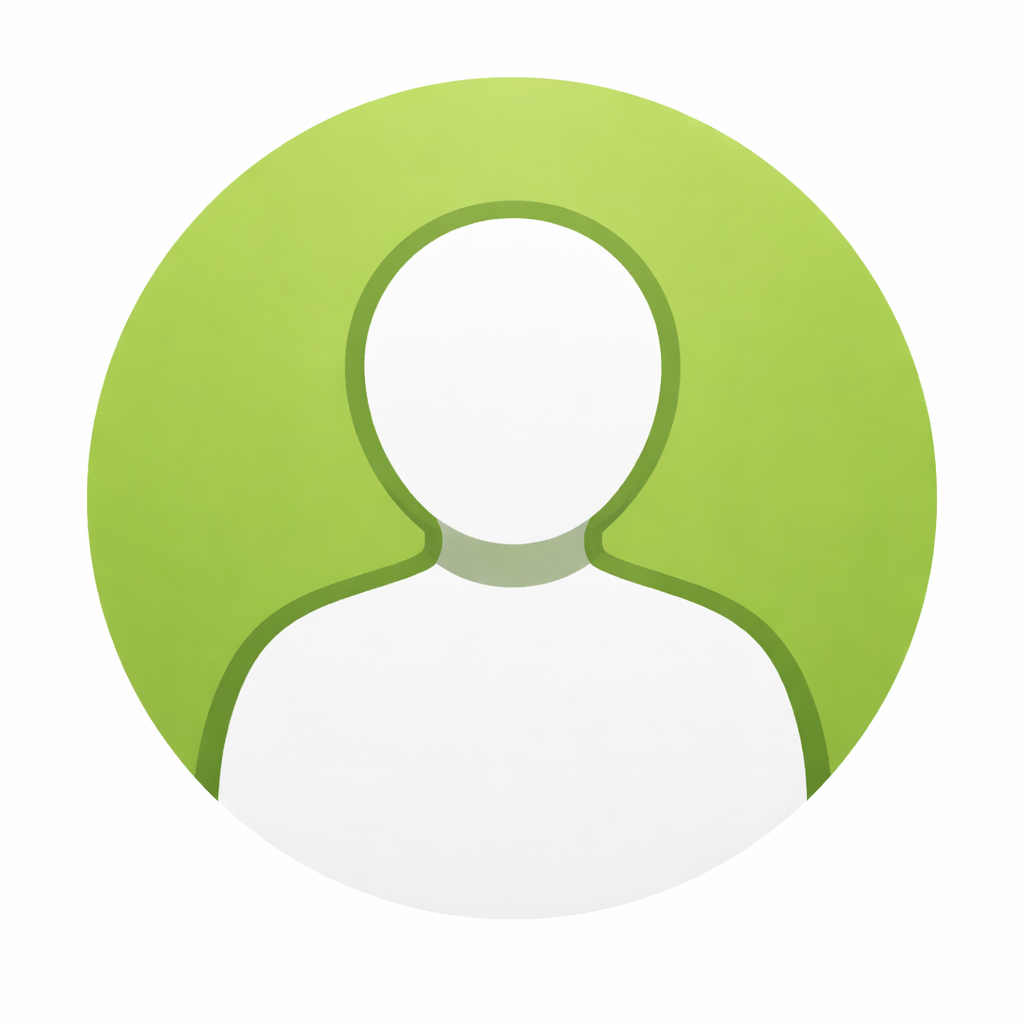
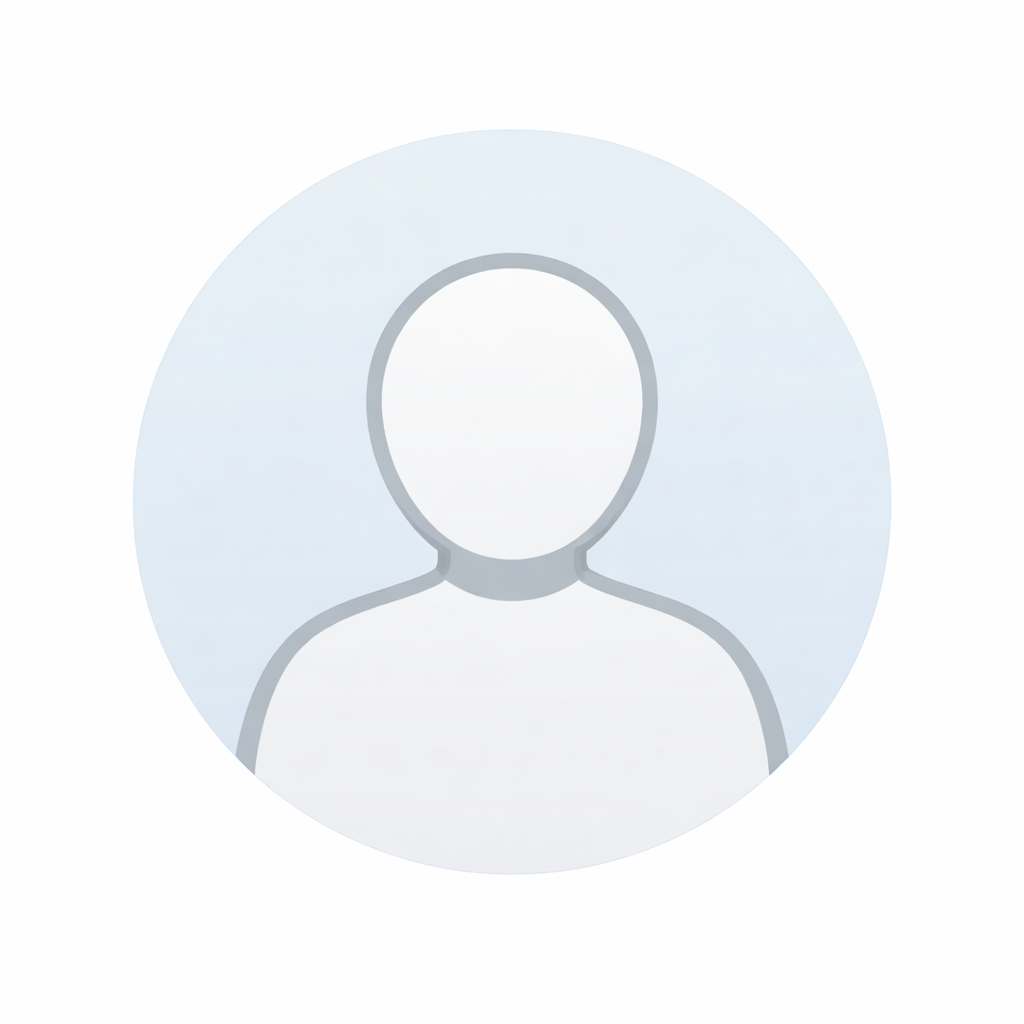
design : 서비스명 및 디자인 통일

diff --git a/src/pages/signIn.tsx b/src/pages/signIn.tsx
@@ -1,4 +1,4 @@
-import logo from "@/assets/logo-transparent.png";
+import logo from "@/assets/logo.png";
 import { Button } from "@/components/ui/button";
 import { Input } from "@/components/ui/input";
 import { Label } from "@/components/ui/label";
@@ -56,7 +56,7 @@ export default function SignIn() {
               <img src={logo} alt="MY XI 로고" className="h-12 sm:h-14" />
             </div>
             <div className="text-left">
-              <h1 className="text-brand-green text-2xl font-bold tracking-wide sm:text-3xl">
+              <h1 className="text-brand text-2xl font-bold tracking-wide sm:text-3xl">
                 MY XI
               </h1>
               <p className="text-muted-foreground text-sm">

diff --git a/src/components/layout/globalLayout.tsx b/src/components/layout/globalLayout.tsx
@@ -8,13 +8,10 @@ export default function GlobalLayout() {
       <header className="h-15 border-b">
         <div className="m-auto flex h-full w-full max-w-5/6 justify-between px-4">
           <Link to={"/"} className="flex items-center">
-            <img
-              className="h-10"
-              src={logo}
-              alt="축구 포메이션 메이커 서비스 로고"
-            />
-            <div className="font-bold">Formation-Lab</div>
+            <img className="h-10" src={logo} alt="MY XI 서비스 로고" />
+            <div className="font-bold">MY XI</div>
           </Link>
+
           <div className="flex items-center">
             <img
               className="h-10"

diff --git a/src/pages/forgetPassword.tsx b/src/pages/forgetPassword.tsx
@@ -1,4 +1,4 @@
-import logo from "@/assets/logo-transparent.png";
+import logo from "@/assets/logo.png";
 import { Button } from "@/components/ui/button";
 import { Input } from "@/components/ui/input";
 import { Label } from "@/components/ui/label";
@@ -36,7 +36,7 @@ export default function ForgetPassword() {
   };
   return (
     <div className="flex min-h-screen flex-col md:flex-row">
-      <div className="bg-brand-green flex w-full items-center justify-center md:w-1/2">
+      <div className="bg-brand flex w-full items-center justify-center md:w-1/2">
         <div className="max-w-sm p-8 text-center text-white">
           <img
             src={logo}

diff --git a/src/pages/SignUp.tsx b/src/pages/SignUp.tsx
@@ -1,4 +1,4 @@
-import logo from "@/assets/logo-transparent.png";
+import logo from "@/assets/logo.png";
 import { Button } from "@/components/ui/button";
 import { Input } from "@/components/ui/input";
 import { Label } from "@/components/ui/label";
@@ -30,7 +30,7 @@ export default function SignUp() {
 
   return (
     <div className="flex min-h-screen flex-col md:flex-row">
-      <div className="bg-brand-green flex w-full items-center justify-center md:w-1/2">
+      <div className="bg-brand flex w-full items-center justify-center md:w-1/2">
         <div className="max-w-sm p-8 text-center text-white">
           <img
             src={logo}

diff --git a/src/index.css b/src/index.css
@@ -25,7 +25,7 @@
   --color-muted-foreground: var(--muted-foreground);
   --color-accent: var(--accent);
   --color-accent-foreground: var(--accent-foreground);
-  --color-brand-green: var(--brand-green);
+  --color-brand: var(--brand);
   --color-destructive: var(--destructive);
   --color-border: var(--border);
   --color-input: var(--input);
@@ -47,7 +47,7 @@
 
 :root {
   --radius: 0.625rem;
-  --brand-green: #6FAF1A;
+  --brand: #E6002D;
   --background: oklch(1 0 0);
   --foreground: oklch(0.145 0 0);
   --card: oklch(1 0 0);

diff --git a/index.html b/index.html
@@ -2,9 +2,9 @@
 <html lang="en">
   <head>
     <meta charset="UTF-8" />
-    <link rel="icon" type="image/svg+xml" href="/logo.png" />
+    <link rel="icon" type="image/svg+xml" href="../src/assets/logo.png" />
     <meta name="viewport" content="width=device-width, initial-scale=1.0" />
-    <title>MY XI</title>
+    <title>MY XI - 직접 뽑은 나만의 베스트 11</title>
   </head>
   <body>
     <div id="root"></div>

diff --git a/src/components/globalLoader.tsx b/src/components/globalLoader.tsx
@@ -1,4 +1,4 @@
-import logo from "@/assets/logo-transparent.png";
+import logo from "@/assets/logo.png";
 
 export default function GlobalLoader() {
   return (
